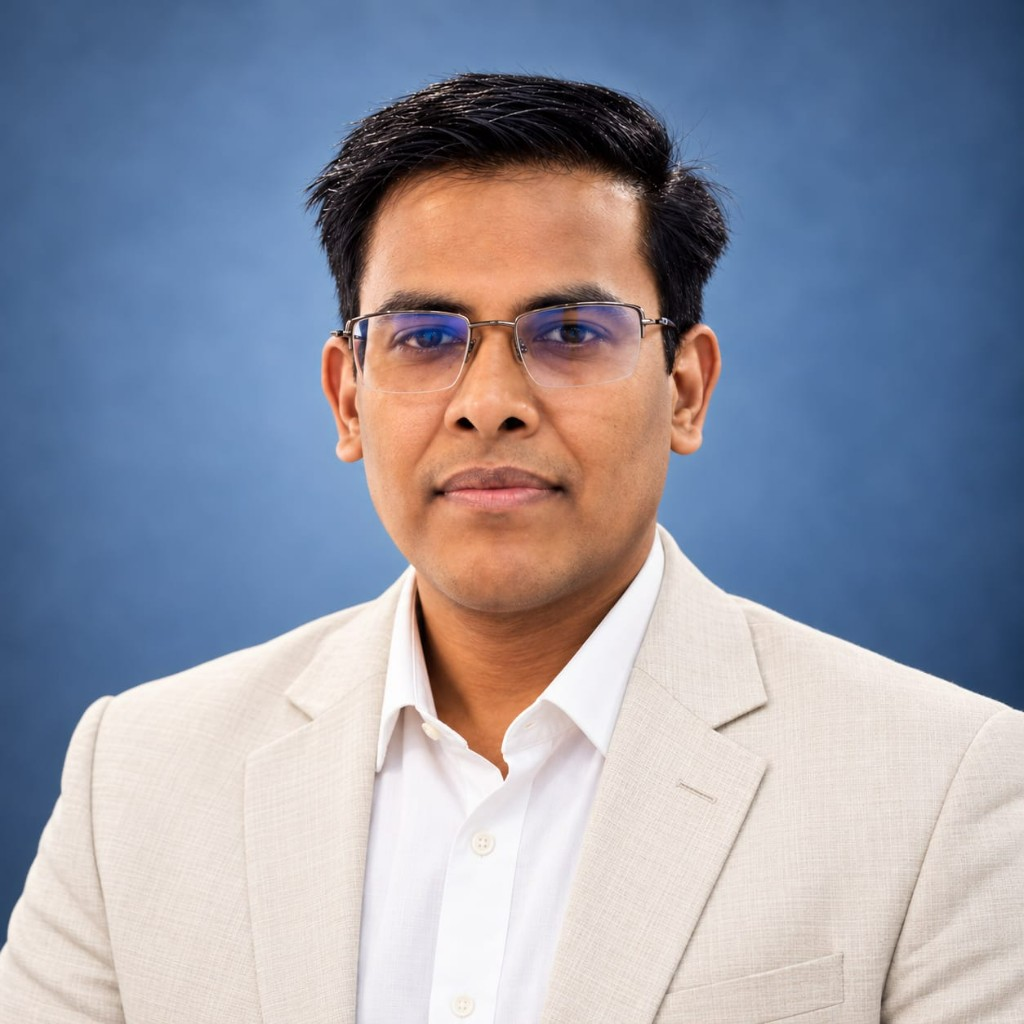
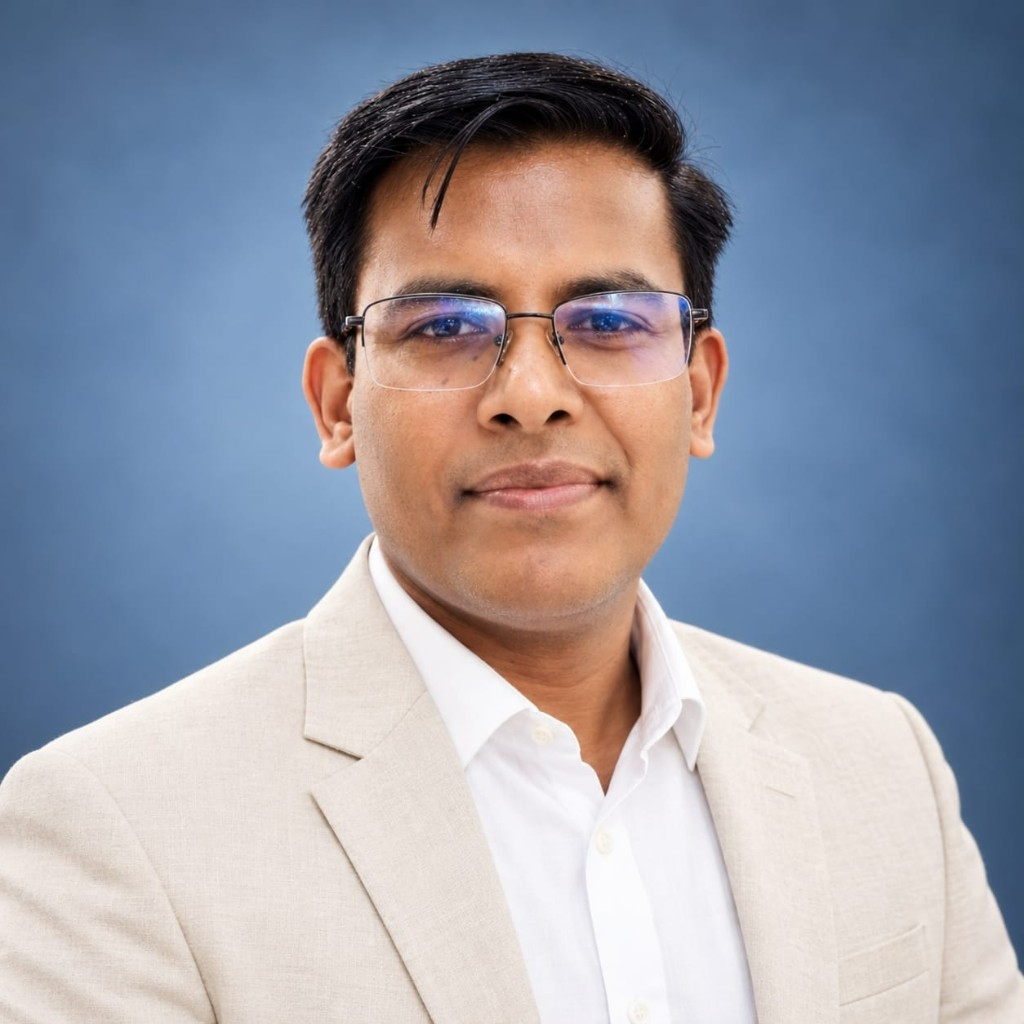
Update people roster, profile photo, and academic profile links.

diff --git a/src/pages/People.tsx b/src/pages/People.tsx
@@ -2,7 +2,23 @@ import { useState } from 'react'
 import { Lightbox } from '../components/Lightbox'
 import { PageHero } from '../components/PageHero'
 import { Reveal } from '../components/Reveal'
-import { site, team } from '../data/site'
+import { site, team, type TeamMember } from '../data/site'
+
+function MemberList({ members }: { members: TeamMember[] }) {
+  return (
+    <div className="member-list">
+      {members.map((person) => (
+        <div className="member" key={`${person.name}-${person.role ?? 'member'}-${person.since ?? ''}`}>
+          <div>
+            <strong>{person.name}</strong>
+            {person.role ? <span>{person.role}</span> : null}
+          </div>
+          {person.since ? <span>{person.since}</span> : null}
+        </div>
+      ))}
+    </div>
+  )
+}
 
 export function People() {
   const [lightbox, setLightbox] = useState<{ src: string; caption: string } | null>(null)
@@ -12,7 +28,7 @@ export function People() {
       <PageHero
         kicker="People"
         title="The research team"
-        lead="PhD scholars, project associates, and MSc students working with Dr. Meshram in the Organic Syntheses Laboratory."
+        lead="Present and former students of the Organic Syntheses Laboratory with Dr. Meshram."
       />
 
       <section className="section-tight">
@@ -38,52 +54,29 @@ export function People() {
                     {site.pi.institution}
                   </p>
                 </div>
+                <div className="profile-links">
+                  {site.pi.profiles.map((profile) => (
+                    <a
+                      key={profile.label}
+                      href={profile.href}
+                      target="_blank"
+                      rel="noreferrer"
+                    >
+                      {profile.label}
+                    </a>
+                  ))}
+                </div>
               </aside>
 
               <div className="member-groups">
                 <div className="member-group">
-                  <h3>PhD students</h3>
-                  <div className="member-list">
-                    {team.phd.map((person) => (
-                      <div className="member" key={person.name}>
-                        <div>
-                          <strong>{person.name}</strong>
-                          <span>{person.role}</span>
-                        </div>
-                        <span>{person.since}</span>
-                      </div>
-                    ))}
-                  </div>
+                  <h3>Present students</h3>
+                  <MemberList members={team.present} />
                 </div>
 
                 <div className="member-group">
-                  <h3>Project associate</h3>
-                  <div className="member-list">
-                    {team.project.map((person) => (
-                      <div className="member" key={person.name}>
-                        <div>
-                          <strong>{person.name}</strong>
-                          <span>{person.role}</span>
-                        </div>
-                        <span>{person.since}</span>
-                      </div>
-                    ))}
-                  </div>
-                </div>
-
-                <div className="member-group">
-                  <h3>MSc project students</h3>
-                  <div className="member-list">
-                    {team.msc.map((person) => (
-                      <div className="member" key={person.name}>
-                        <div>
-                          <strong>{person.name}</strong>
-                          <span>{person.role}</span>
-                        </div>
-                        <span>{person.since}</span>
-                      </div>
-                    ))}
-                  </div>
+                  <h3>Former students</h3>
+                  <MemberList members={team.former} />
                 </div>
               </div>
             </div>

diff --git a/src/data/site.ts b/src/data/site.ts
@@ -15,6 +15,9 @@ export const site = {
     emails: ['milindmeshram@kthmcollege.ac.in', 'milind.iit@gmail.com'],
     scholar:
       'https://scholar.google.com/citations?user=Kja6zL4AAAAJ&hl=en',
+    scopus:
+      'https://www.scopus.com/authid/detail.uri?authorId=33167680600',
+    orcid: 'https://orcid.org/0000-0002-8922-4363',
     address:
       'Department of Chemistry, KTHM College, Gangapur Road, Shivaji Nagar, Nashik-422002, Maharashtra, India',
     experience: {
@@ -24,6 +27,20 @@ export const site = {
     memberships: [
       { label: 'ACS Member', id: '33290821' },
       { label: 'MRSC', id: '809153' },
+    ],
+    profiles: [
+      {
+        label: 'Google Scholar',
+        href: 'https://scholar.google.com/citations?user=Kja6zL4AAAAJ&hl=en',
+      },
+      {
+        label: 'Scopus',
+        href: 'https://www.scopus.com/authid/detail.uri?authorId=33167680600',
+      },
+      {
+        label: 'ORCID',
+        href: 'https://orcid.org/0000-0002-8922-4363',
+      },
     ],
   },
   grant: {
@@ -166,25 +183,38 @@ export const awards = [
   },
 ]
 
+export type TeamMember = {
+  name: string
+  role?: string
+  since?: string
+}
+
 export const team = {
-  phd: [
+  present: [
     { name: 'Mr. B. K. Ghotekar', role: 'PhD Student', since: 'April 2023' },
     { name: 'Mr. P. V. Ambre', role: 'PhD Student', since: 'July 2023' },
-  ],
-  project: [
+    {
+      name: 'Mr. P. S. Boraste',
+      role: 'DST-ANRF – Project Associate-I',
+      since: 'October 2026',
+    },
+  ] as TeamMember[],
+  former: [
     {
       name: 'Mr. S. S. Patade',
       role: 'DST – Project Associate-I',
       since: 'January 2024',
     },
-  ],
-  msc: [
     { name: 'Mr. P. S. Boraste', role: 'MSc Project', since: 'March 2023' },
     { name: 'Mr. P. R. Agre', role: 'MSc Project', since: 'April 2023' },
     { name: 'Mr. S. B. Gangurde', role: 'MSc Project', since: 'April 2023' },
     { name: 'Ms. M. S. Chaughule', role: 'MSc Project', since: 'February 2024' },
-    { name: 'Ms. K. P. Ahire', role: 'MSc Project', since: 'February 2024' },
-  ],
+    { name: 'Ms. K. P. Aher', role: 'MSc Project', since: 'February 2024' },
+    { name: 'Ms. D. R. Aher', role: 'MSc Project', since: 'February 2024' },
+    { name: 'Mr. P. A. Mahajan' },
+    { name: 'Mr. P. P. Khairnar' },
+    { name: 'Mr. L. B. Jadhav' },
+  ] as TeamMember[],
 }
 
 export const equipment = [

diff --git a/src/pages/About.tsx b/src/pages/About.tsx
@@ -47,14 +47,17 @@ export function About() {
                   . Books / book chapters: 01 each. Invited lectures: 05.
                 </p>
                 <div className="cta-row" style={{ marginTop: '1.25rem' }}>
-                  <a
-                    className="btn btn-primary"
-                    href={site.pi.scholar}
-                    target="_blank"
-                    rel="noreferrer"
-                  >
-                    Google Scholar
-                  </a>
+                  {site.pi.profiles.map((profile, index) => (
+                    <a
+                      key={profile.label}
+                      className={index === 0 ? 'btn btn-primary' : 'btn btn-outline'}
+                      href={profile.href}
+                      target="_blank"
+                      rel="noreferrer"
+                    >
+                      {profile.label}
+                    </a>
+                  ))}
                   <Link className="btn btn-outline" to="/contact">
                     Contact details
                   </Link>

diff --git a/src/pages/Contact.tsx b/src/pages/Contact.tsx
@@ -39,9 +39,18 @@ export function Contact() {
                   </li>
                   <li>
                     <span>Profiles</span>
-                    <a href={site.pi.scholar} target="_blank" rel="noreferrer">
-                      Google Scholar
-                    </a>
+                    <div className="profile-links">
+                      {site.pi.profiles.map((profile) => (
+                        <a
+                          key={profile.label}
+                          href={profile.href}
+                          target="_blank"
+                          rel="noreferrer"
+                        >
+                          {profile.label}
+                        </a>
+                      ))}
+                    </div>
                   </li>
                 </ul>
               </div>

diff --git a/src/components/Layout.tsx b/src/components/Layout.tsx
@@ -101,9 +101,16 @@ export function Layout() {
                 <NavLink to="/research">Research</NavLink>
                 <NavLink to="/publications">Publications</NavLink>
                 <NavLink to="/lab">Laboratory</NavLink>
-                <a href={site.pi.scholar} target="_blank" rel="noreferrer">
-                  Google Scholar
-                </a>
+                {site.pi.profiles.map((profile) => (
+                  <a
+                    key={profile.label}
+                    href={profile.href}
+                    target="_blank"
+                    rel="noreferrer"
+                  >
+                    {profile.label}
+                  </a>
+                ))}
               </div>
             </div>
           </div>

diff --git a/src/index.css b/src/index.css
@@ -878,6 +878,25 @@ select {
   margin-bottom: 0.75rem;
 }
 
+.profile-links {
+  display: flex;
+  flex-wrap: wrap;
+  gap: 0.55rem 0.9rem;
+  margin-top: 1rem;
+}
+
+.profile-links a {
+  color: var(--accent);
+  font-weight: 600;
+  font-size: 0.92rem;
+  text-decoration: underline;
+  text-underline-offset: 0.18em;
+}
+
+.profile-links a:hover {
+  color: var(--navy);
+}
+
 .member-groups {
   display: grid;
   gap: 1.5rem;
